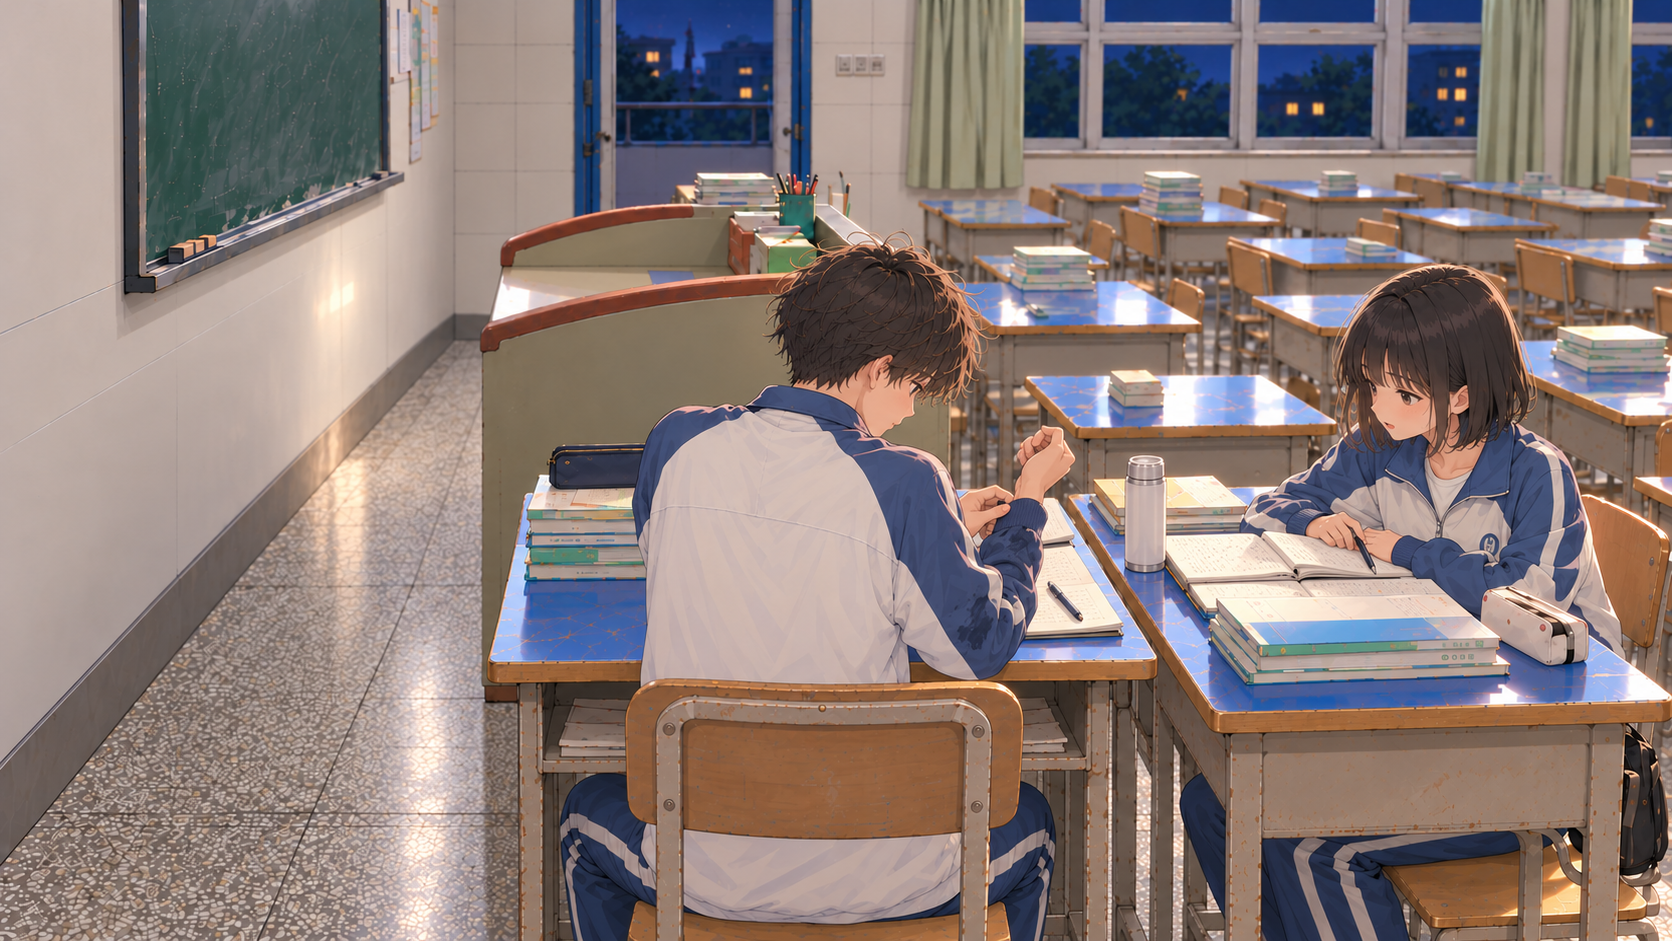
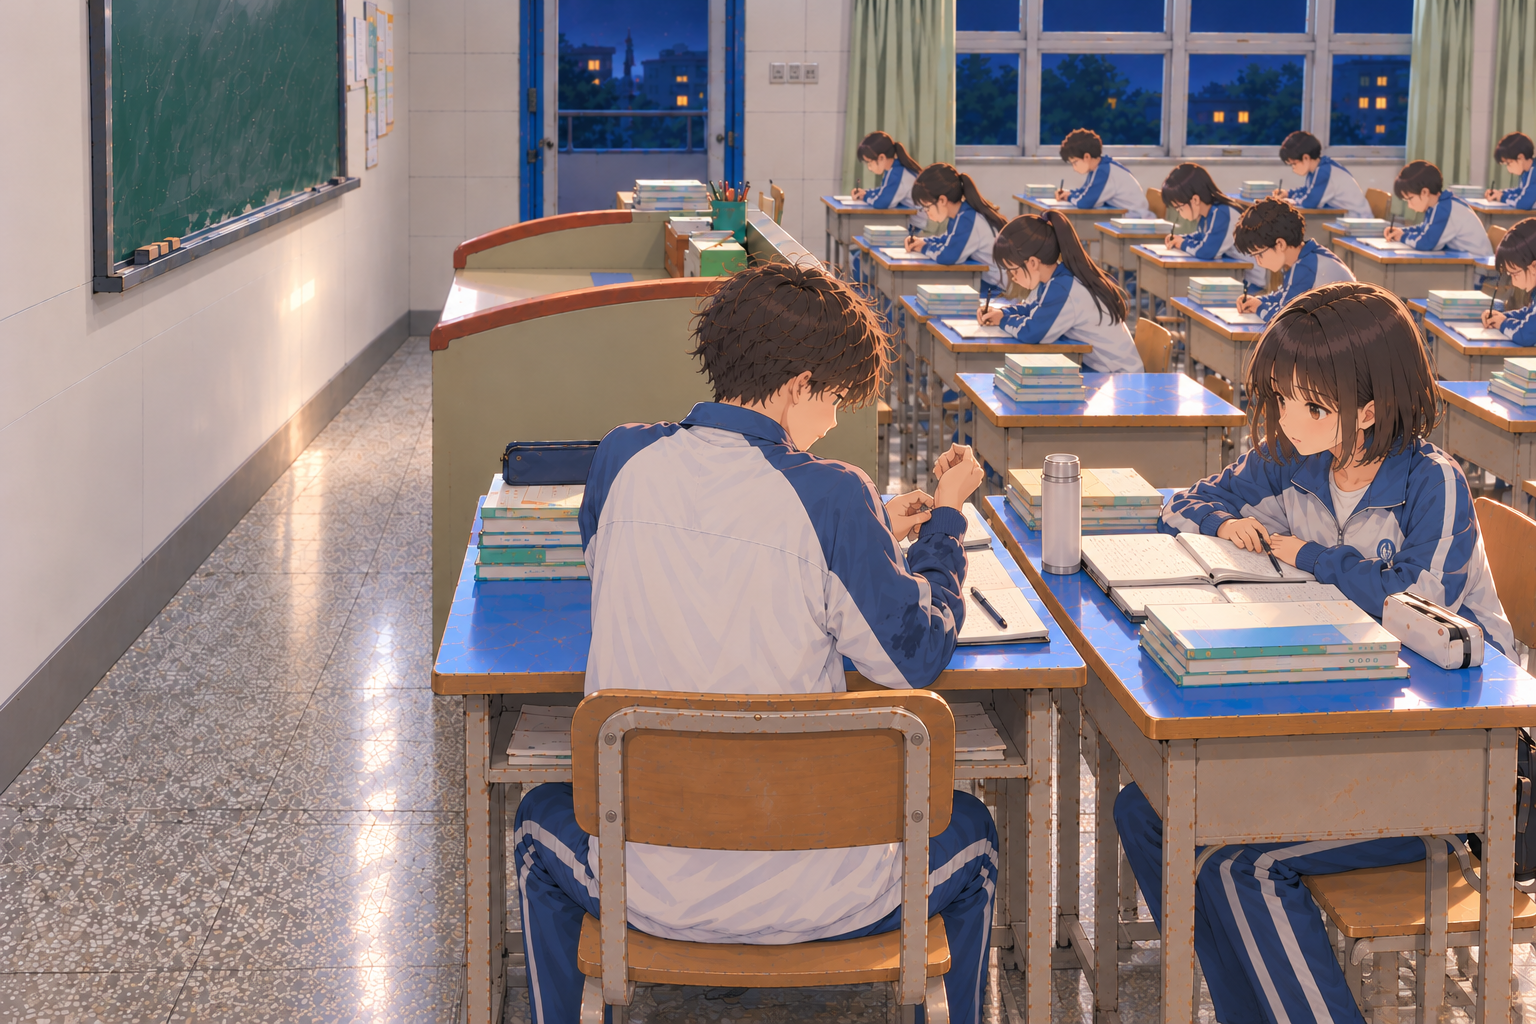
Replace third-act illustrations with author supplied images

diff --git a/UnityProject/Assets/_Game/Scripts/StoryScreen.cs b/UnityProject/Assets/_Game/Scripts/StoryScreen.cs
@@ -191,28 +191,48 @@ namespace LoveNarrativeGame.Prototype
             float width = Mathf.Min(1, targetAspect / aspect), height = Mathf.Min(1, aspect / targetAspect);
             return new Rect((1 - width) * Mathf.Clamp01(focus), (1 - height) * .6f, width, height);
         }
+        private static bool IsWaterCup(StoryShot shot)
+        { return shot >= StoryShot.EveningStudy && shot <= StoryShot.WetSleeve; }
+        private static Rect PictureView(RawImage image, StoryBeat beat)
+        {
+            // Author's replacement frames include floor actions; keep the whole image above dialogue.
+            bool whole = IsWaterCup(beat.shot);
+            float scale = whole ? Mathf.Min(1920f / image.texture.width, 780f / image.texture.height) : 1f;
+            image.rectTransform.sizeDelta = whole
+                ? new Vector2(image.texture.width * scale, image.texture.height * scale) : new Vector2(1920, 1080);
+            image.rectTransform.anchoredPosition = whole ? new Vector2(960, 690) : new Vector2(960, 540);
+            return whole ? new Rect(0, 0, 1, 1) : Cover(image.texture, beat.focus);
+        }
         private void ShowBeat(bool first = false)
         {
             var beat = beats[progress.Index];
             if (first)
             {
                 currentShot = beat.shot; art.texture = shots[beat.shot];
-                art.uvRect = cameraTarget = Cover(art.texture, beat.focus); dissolve.color = Color.clear; Present(beat);
+                art.uvRect = cameraTarget = PictureView(art, beat); art.color = Color.white; dissolve.color = Color.clear; Present(beat);
             }
             else if (beat.fade || beat.shot != currentShot) StartCoroutine(ChangeShot(beat));
-            else { cameraTarget = Cover(shots[beat.shot], beat.focus); Present(beat); }
+            else { cameraTarget = PictureView(art, beat); Present(beat); }
         }
         private IEnumerator ChangeShot(StoryBeat beat)
         {
             transitioning = true; body.text = ""; speaker.text = "";
-            dissolve.texture = shots[beat.shot]; dissolve.uvRect = Cover(dissolve.texture, beat.focus);
+            dissolve.texture = shots[beat.shot]; dissolve.uvRect = PictureView(dissolve, beat);
+            bool fitTransition = IsWaterCup(currentShot) || IsWaterCup(beat.shot);
             float duration = beat.fade ? .65f : .4f;
             for (float elapsed = 0; elapsed < duration;)
             {
-                if (!paused) { elapsed += Time.unscaledDeltaTime; dissolve.color = new Color(1, 1, 1, Mathf.SmoothStep(0, 1, elapsed / duration)); }
+                if (!paused)
+                {
+                    elapsed += Time.unscaledDeltaTime;
+                    float alpha = Mathf.SmoothStep(0, 1, elapsed / duration);
+                    dissolve.color = new Color(1, 1, 1, alpha);
+                    if (fitTransition) art.color = new Color(1, 1, 1, 1 - alpha);
+                }
                 yield return null;
             }
             currentShot = beat.shot; art.texture = dissolve.texture; art.uvRect = cameraTarget = dissolve.uvRect;
+            PictureView(art, beat); art.color = Color.white;
             dissolve.color = Color.clear; transitioning = false; Present(beat);
         }
         private void Present(StoryBeat beat)

diff --git a/docs/PROGRESS.md b/docs/PROGRESS.md
@@ -2,6 +2,12 @@
 
 ## 更新 · 2026-11-01
 
+### 第三幕作者五张新版图替换
+- 作者指定桌面第三幕文件夹，操作期间文件移到资产包/第三幕；按图1/图二/图三/图四/图五对应EveningStudy/SpilledWater/EyeContact/Mopping/WetSleeve，归档和运行副本原样替换，五组SHA256一致。先更新来源台账，保留原.meta和GUID；不改第三幕18段文本、五幕99段及背景音乐。
+- 首图1672×941，其余1536×1024。第三幕增加等比完整展示于对话框上方，避免原16:9裁切丢失地面动作；第三幕跨图和进出时同步淡出旧图，其他幕布局保持。独立C#编译通过（既有CS1701提示），静态差异检查通过。
+- Unity曾在退出前实际导入五张图，Editor.log记录五张原GUID；最终显示代码未取得Unity构建成功证据。后台打开工程退出1（TestResults/Act3Replacement/Build.log），GUI启动无可用编辑器窗口，Hub恢复时检测到用户正在操作并停止继续桌面输入。没有运行Play或独立游戏测试；本次没有更新Windows包，现有resources.assets仍为20:41:43。
+- 作者从Hub打开UnityProject后，Tools → Story Prototype → Build Illustrated Menu，看到ILLUSTRATED_MENU_BUILD_PASS后再运行，检查第三幕五图与地面道具、图下对白及进入第四幕。不要把现有exe当作新图版。
+
 ### 第五幕《这道题》实际接入与构建 · 20:41
 - 按MS-05保留17句对白，整理6段旁白、4段题面/笔记，共27段；五幕99段。先做线性阅读，不加数值输入、答案分支或纸页操作，不将520解释成告白。
 - 内置image_gen制作邀约、留下讲题、桌面近景、自行写答、约饭微笑五图，沿用晚自习场景和资产包男女主；朋友以未定名校服侧背影临时演出。准确公式由Unity文字显示，图中仅示意笔迹。原图/提示与来源台账保存，五对副本哈希一致；美术待作者审阅。

diff --git a/docs/THIRD_ACT.md b/docs/THIRD_ACT.md
@@ -1,5 +1,13 @@
 # 第三幕《水杯》
 
+## 作者新版图片 · 2026-11-01
+
+作者重新制作的五图已按“图1、图二、图三、图四、图五”替换为晚自习、洒水、对视、拖地、湿袖口，实际取自资产包/第三幕（作者最初提供桌面路径，操作期间已移入资产包）。原图无修改复制到归档与游戏既有文件；五组SHA256一致，保留原.meta/GUID和StoryBook引用，18段对白/旁白、音乐与五幕99段顺序不变。
+
+后四图为1536×1024，首图1672×941。第三幕改为在对话框上方1920×780区域等比完整显示，避免地面杯子、水迹和拖把被16:9裁切；左右适当留白，其他幕保持原布局。转场时旧图同步淡出，避免较窄新图外侧残留旧画面。来源及哈希见art/Story/Act3/WaterCup/AUTHOR_REPLACEMENT.md；旧PROMPTS.md只作历史。
+
+独立脚本编译通过（既有CS1701提示）；新版Windows构建状态见PROGRESS最新记录。未执行Play或独立游戏阅读测试。作者打开新版，推进到第三幕，核对五张替换图依次出现、杯子与拖把可见、正文仍在图下方，随后能进入第四、第五幕即可。下方原三幕结束页测试是历史记录；当前结尾以第五幕为准。
+
 2026-11-01。按 MAIN_STORY_V0.3 MS-03，将当日晚自习碰杯、道歉、对视、拾杯盖、拖地与卷湿袖口接入《旁边的位置》。保留原稿9句角色对白，舞台动作整理为9段旁白，共18段。三幕共52段，故事目录仍是一部故事，不增加独立第三幕故事卡。
 
 沿用作者先完成剧情演出、后补互动的要求：当前通过点击补全文字/继续推进，未制作杯盖热点、拖地操作或流体模拟。事故为固定剧情，不归因于玩家操作错误。保留现有循环背景音乐，不新增配音或泼水音效。

diff --git a/art/Story/Act3/WaterCup/AUTHOR_REPLACEMENT.md b/art/Story/Act3/WaterCup/AUTHOR_REPLACEMENT.md
@@ -1,0 +1,15 @@
+# 第三幕作者替换图 · 2026-11-01
+
+作者明确要求使用桌面“第三幕”文件夹中的五张新图，替换游戏原有第三幕图片。以下按画面动作和现有18段剧情匹配，不改对白、章节顺序、音乐或其他幕。旧版生成提示词PROMPTS.md仅保留为历史来源，不是本版图片的实际提示。
+
+| 作者文件 | 游戏图片 | 原始尺寸 | SHA256（原图、归档、游戏副本一致） |
+| --- | --- | --- | --- |
+| 图1.png | EveningStudy | 1672×941 | f4ec7e60473b03ae026ffe2f5eb06c6191d7c11c357369b814def9d4c0bd94b1 |
+| 图二.png | SpilledWater | 1536×1024 | 5b169b6ac233afc4ccedd57088c164a1b86871c446b0f239e7eb928872a02d50 |
+| 图三.png | EyeContact | 1536×1024 | 9aaa1ec4e363edbc959b6ceae30483bf4a532e3a0ac90bbe5c450a4e97eedc48 |
+| 图四.png | Mopping | 1536×1024 | b7762ff1cfa1de9d23449657da2e788f774d60f50a212eed417a7b63686704d5 |
+| 图五.png | WetSleeve | 1536×1024 | 1e1b7b967edc526dc64dbd95012ffbd2f52b9dc9920930157def018fa2adb4a0 |
+
+原样复制到本目录既有01—05文件和Resources/Story/WaterCup既有文件；不修改.meta和GUID，StoryBook图片引用保持。旧版本可从Git历史恢复，桌面原文件未改动。作者未提供生图工具及商业条款，台账仅记录已授权本地开发使用，发行前另核对。
+
+第三幕图片保持完整比例，放在对话框上方的1920×780区域内，居中留白，不拉伸或裁掉地面的杯子、水迹、拖把和湿袖口。其他幕保留原画面布局。实际显示由作者验收。

diff --git a/README.md b/README.md
@@ -1,5 +1,7 @@
 # 原创 2D 叙事游戏（开发代号待定）
 
+**第三幕作者新版图片已替换（2026-11-01）：** 五张图片已原样更新到工程，第三幕等比完整显示于对话框上方，保留18段剧情及其他四幕。独立C#编译通过；本次后台Unity启动退出1，未生成新版Windows包，现有exe仍为20:41的旧图版。请从Hub打开工程，选择Tools → Story Prototype → Build Illustrated Menu后查看。见[第三幕说明](docs/THIRD_ACT.md)。
+
 **第五幕《这道题》已构建（2026-11-01 20:41）：** [打开 Windows 新版](Builds/MenuDemo/MenuDemo.exe)，《旁边的位置》连续五幕，共99段、23图。新增留下讲题、清晰题面与解法、520结果及次日约饭的线性演出；数学已核对，背景音乐保留。Unity实际编译与Windows构建通过，阅读验收请按[第五幕测试步骤](docs/FIFTH_ACT.md)。解题输入等互动后补，第六幕待制作。以下为历史记录。
 
 **第四幕《你的核酸码》已构建（2026-11-01 19:59）：** [打开 Windows 新版](Builds/MenuDemo/MenuDemo.exe)，同一《旁边的位置》故事卡连续播放四幕，共72段、18图；新增教室取卡与体育馆递卡演出，保留循环背景音乐。独立编译、Unity实际编译和Windows构建通过；未代做剧情阅读测试，请按[第四幕测试步骤](docs/FOURTH_ACT.md)验收。第五幕《这道题》尚未制作，以下保留历史。

diff --git a/docs/ROADMAP.md b/docs/ROADMAP.md
@@ -1,5 +1,7 @@
 # 首阶段执行计划
 
+> 2026-11-01：第三幕作者五张新图已替换工程，保留剧情与资源GUID；等比完整展示避免裁切，独立脚本编译通过。本次Unity后台启动退出1，Windows包未更新，需从Hub打开工程并执行Build Illustrated Menu；之后由作者验收。见THIRD_ACT.md。
+
 > 2026-11-01 20:41：第五幕《这道题》五图与27段已接入，现有五幕/23图/99段；题面和解法用Unity文字显示，数学核对、Unity实际编译与Windows构建通过。作者按FIFTH_ACT.md验收。当前完成MS-01—05的线性演出，特色互动仍后补；下一幕为MS-06《鸡排饭和英语题》。下方为历史记录。
 
 > 2026-11-01 19:59：第四幕《你的核酸码》五图与20段已接入，现有四幕/18图/72段，音乐保留，Unity实际编译与Windows构建成功；作者阅读验收按FOURTH_ACT.md。下一幕《这道题》待制作。下方为历史记录。
